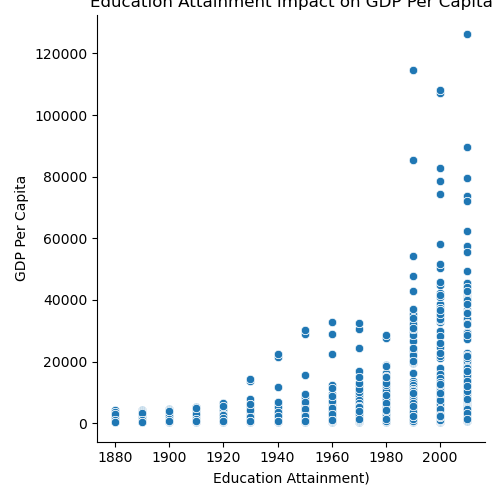
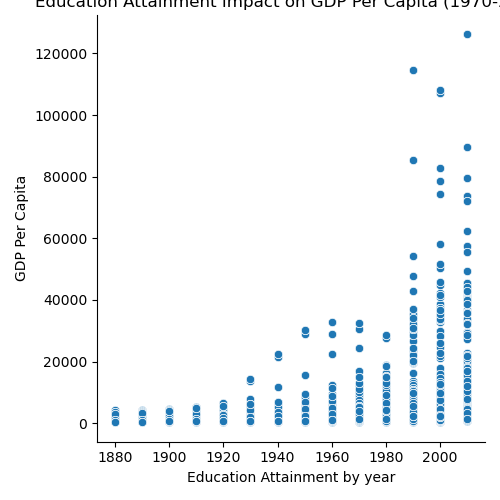
edited question 2 figure

Changed region(s): [[0.06, 0.0, 0.99, 0.03], [0.36, 0.93, 0.81, 0.99]]

diff --git a/question_2.py b/question_2.py
@@ -36,8 +36,8 @@ def new_data(file_name, file_name_2):
     sns.relplot(x='year', y='gdppc', data=merged)
 
     #plt.legend()
-    plt.title("Education Attainment Impact on GDP Per Capita")
-    plt.xlabel('Education Attainment')
+    plt.title("Education Attainment Impact on GDP Per Capita (1970-2010)")
+    plt.xlabel('Education Attainment by year')
     plt.ylabel('GDP Per Capita')
     plt.savefig('Educ vs GDPPC.png')
 
